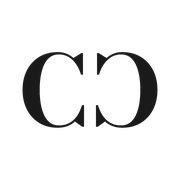
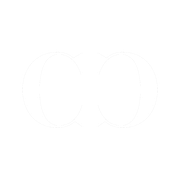
Add files via upload

Changed region(s): [[0.5278, 0.2778, 0.8889, 0.7222], [0.1111, 0.2778, 0.4722, 0.7222]]

diff --git a/index.html b/index.html
@@ -5,7 +5,7 @@
 <meta name="viewport" content="width=device-width, initial-scale=1, viewport-fit=cover" />
 <meta name="robots" content="noindex, nofollow" />
 <title>closet case</title>
-<link rel="apple-touch-icon" href="icon.png?v=3" />
+<link rel="apple-touch-icon" href="icon.png?v=4" />
 <meta name="apple-mobile-web-app-capable" content="yes" />
 <meta name="apple-mobile-web-app-status-bar-style" content="black-translucent" />
 <meta name="apple-mobile-web-app-title" content="closet case" />
